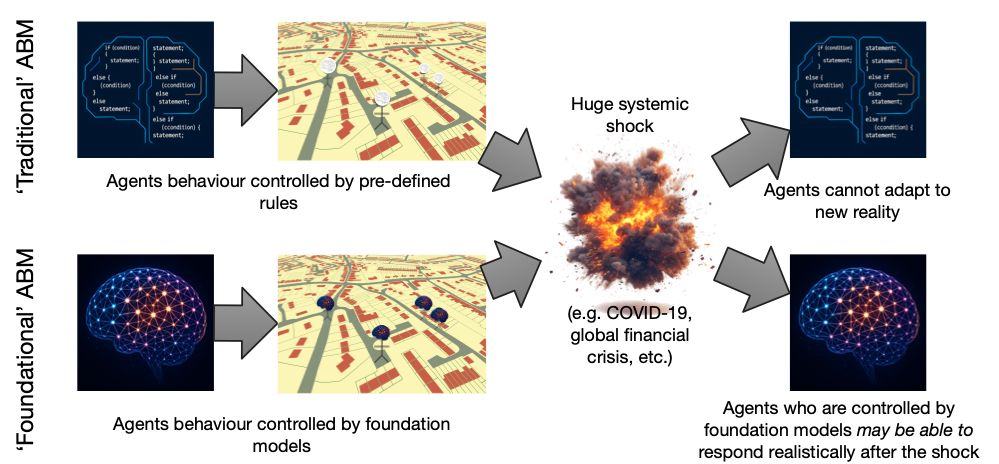
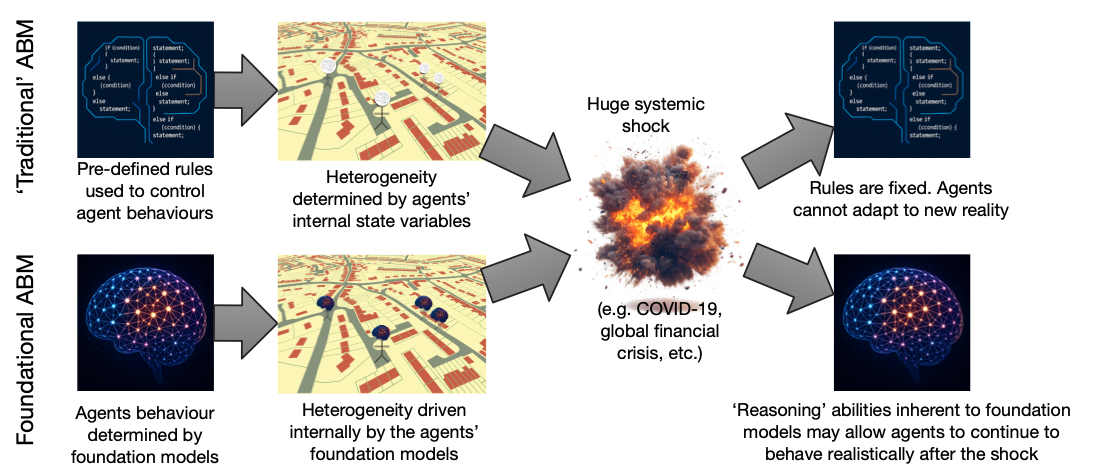
updated cambridge presentation

diff --git a/p/2025-07-ABM_Calibration_Cambridge.html b/p/2025-07-ABM_Calibration_Cambridge.html
@@ -62,6 +62,7 @@
                         </a>
                         <a href="http://www.leeds.ac.uk/">
                             <img style="float:right;padding:5px;width:auto; height:60px;"
+								 class="whitebackground"
                                  data-src="../figures/uol_logo.gif" />
                         </a>
                         <!--<a href="https://environment.leeds.ac.uk/geography">
@@ -75,7 +76,7 @@
                 
                 <section id="outline">
                     
-                    <img src="../figures/chatgpt/digital_city_abm.png" class="right"
+                    <img data-src="../figures/chatgpt/digital_city_abm.png" class="right"
                          style="width:30%;"
                          alt="Nice sunset/sunrise" />
                     <h2>Outline</h2>
@@ -93,15 +94,14 @@
                 
                 <section id="progress-model_synthesis-dyme">
                     <figure class="right">
-                        <img src="../figures/paper_figures/2021-03-RAMP/RAMP_Workflow-with_GeoLytics.png"
+                        <img data-src="../figures/paper_figures/2021-03-RAMP/RAMP_Workflow-with_GeoLytics.png"
                              alt="Diagram of the ramp model components described in the slide text" />
                         <figcaption>Spooner et al. (2021) A dynamic microsimulation model for epidemics. <em>Social Science &amp; Medicine</em> 291, 114461. DOI: <a href="https://doi.org/10.1016/j.socscimed.2021.114461">10.1016/j.socscimed.2021.114461</a></figcaption>
                     </figure>
-                    <h2>Model synthesis</h2>
                     <h3>DyME: Dynamic Model for Epidemics</h3>
                     <!--<p>Part of the Royal Society Rapid Assistance in Modelling the Pandemic (RAMP) call</p>-->
                     <p>COVID transmission model with components including:</p>
-                    <p class="l2">dynamic spatial microsimulation, spatial interaction model, data linkage (PSM), ...</p> 
+                    <p class="l2">dynamic spatial microsimulation, spatial interaction model, data linkage (PSM), infection model</p> 
                     <p>Represents all individuals in a study area with activities: home, shopping, working, schooling</p>
                     <p>Daily timestep</p>
 
@@ -128,19 +128,24 @@
                 
                 
                 <section id="progress-model_synthesis-dyme-data">
-                    <h2>DyME Drawbacks: Data and Latent Variables</h2>
+					<h2>DyME Drawbacks:<br/> Data and Latent Variables</h2>
                     <p>Incredible detailed model!</p>
                     <p>BUT only data available for validation: COVID cases and hospital deaths</p>
                     <p class="l2">Only quantify a tiny part of the transmission dynamics</p>
+					<p class="l2">Manually calibrated most of the parameters</p>
                     <p class="l2">Huge uncertainties</p>
                     <p>Can we use dynamic calibration to:</p>
                     <p class="l2">Infer latent variables</p>
                     <p class="l2">Make better 'real-time' predictions</p>
                     
-                    <!--<img data-src="../figures/paper_figures/2021-03-RAMP/Disease_Status_Upates.png"
-                         style="width:80%;"
-                         alt="Different disease stages: susceptible, exposed (pre)(a)symptomatic, removed" />-->
                 </section>
+
+
+                <section id="disease_status_updates">
+                    <img data-src="../figures/paper_figures/2021-03-RAMP/Disease_Status_Upates.png"
+                         style="width:80%;"
+                         alt="Different disease stages: susceptible, exposed (pre)(a)symptomatic, removed" />
+				</section>
                 
                 <section id='dyme-dynamic_calibration'>
                     <h2>Dynamic Calibration for DyME</h2>
@@ -155,16 +160,6 @@
                     <p class="l2">Parameter posteriors might reveal information about the model / system</p>
                 </section>
 
-                <section id='dyme-abc-posteriors'>
-                    <figure>
-                        <img data-src="../figures/paper_figures/2022-RAMP_DA/parameter_evolution.png"
-                             style="width: 70%;"
-                            alt="Posterior parameter estimates for the DyME model"/>
-                        <figcaption>
-                            M. Asher, N. Lomax, K. Morrissey, F. Spooner, N. Malleson (2023) Dynamic Calibration with Approximate Bayesian Computation for a Microsimulation of Disease Spread. <i>Nature Scientific Reports</i> (under review)
-                        </figcaption>
-                    </figure>
-                </section>
 
                 <section id='dyme-abc-predictions'>
                     <figure>
@@ -172,11 +167,21 @@
                              alt="Uncertain predictions made using the DyME parameter posteriors.
                                   The certainty increases as more data become available."/>
                         <figcaption>
-                            M. Asher, N. Lomax, K. Morrissey, F. Spooner, N. Malleson (2023) Dynamic Calibration with Approximate Bayesian Computation for a Microsimulation of Disease Spread. <i>Nature Scientific Reports</i> (under review)
+                            M. Asher, N. Lomax, K. Morrissey, F. Spooner, N. Malleson (2023) Dynamic Calibration with Approximate Bayesian Computation for a Microsimulation of Disease Spread. <i>Nature Scientific Reports</i> 13 (1): 8637. DOI: <a href="https://doi.org/10.1038/s41598-023-35580-z">10.1038/s41598-023-35580-z</a>
                         </figcaption>
                     </figure>
                 </section>
                     
+                <section id='dyme-abc-posteriors'>
+                    <figure>
+                        <img data-src="../figures/paper_figures/2022-RAMP_DA/parameter_evolution.png"
+                             style="width: 70%;"
+                            alt="Posterior parameter estimates for the DyME model"/>
+                        <figcaption>
+                            M. Asher, N. Lomax, K. Morrissey, F. Spooner, N. Malleson (2023) Dynamic Calibration with Approximate Bayesian Computation for a Microsimulation of Disease Spread. <i>Nature Scientific Reports</i> 13 (1): 8637. DOI: <a href="https://doi.org/10.1038/s41598-023-35580-z">10.1038/s41598-023-35580-z</a>
+                        </figcaption>
+                    </figure>
+                </section>
                 
                 <section id="progress-computation-dyme">
                     
@@ -197,7 +202,7 @@
                 <section id="progress-computation-dyme-improbable"
                          data-background-video="../videos/Ramp_UA_2020-08-28 12-29-25.mp4">
                     <div class="whitebackground2 fragment">
-                        <img src="../figures/LOGO_Improbable.png" class="right" style="width:30%;"
+                        <img data-src="../figures/LOGO_Improbable.png" class="right" style="width:30%;"
                              alt="Improbable company logo" />
                         <p>Re-implemented numpy/pandas model using (py)OpenCL</p>
                         <p>Run time went from 2 hours to a few seconds!</p>
@@ -467,7 +472,7 @@
                 <section id="PolicyDiffusion-Intro" >
                     
                     <figure class="right" >
-                        <img src="../figures/paper_figures/2023-Covid_Policy_Response/data_properties-vertical.png"
+                        <img data-src="../figures/paper_figures/2023-Covid_Policy_Response/data_properties-vertical.png"
                              alt="Two subplots showing the progression of COVID-19 policy adoption across countries in March 2020. Panel (a) depicts the number of countries implementing school closures at four levels of stringency (level 0 to level 3) over time, with a rapid transition to level 3 (complete school closures) around mid-March. Panel (b) compares the adoption of various policies, including school closures, workplace closures, event cancellations, stay-at-home orders, domestic travel restrictions, and international travel restrictions, all measured by the number of countries. School closures exhibit the fastest and most widespread adoption, closely followed by event cancellations, with other policies showing slower adoption."
                             style="width:70%;" />
                         <figcaption>Adoption of school closure policies by governments worldwide. Data source: 
@@ -581,7 +586,7 @@
                 
                 <section id="WealthDistributions-Methods2">
                     <img class="right" style="width: 20%;"
-                         src="../figures/paper_figures/2025-ABM_Wealth_Distribution/fig3.png"
+                         data-src="../figures/paper_figures/2025-ABM_Wealth_Distribution/fig3.png"
                         alt="Flowchart illustrating the particle filter process. It begins with generating an ensemble of models, followed by predictions. At each time step, the algorithm checks if filtering is required (t = k). If yes, the predictions are compared to observations, optimal synthesis is computed, and ensemble members are updated. The process repeats for subsequent time steps." />
                     <h2>Methods (ii)</h2>
                     <h3>Wealth Diffusion with an EnKF</h3>
@@ -604,7 +609,7 @@
                 </section>
                 
                 <section id="WealthDistributions-Discussion">
-                    <img class="right" src="../figures/paper_figures/2025-ABM_Wealth_Distribution/paper_chatgpt_image.jpg"
+                    <img class="right" data-src="../figures/paper_figures/2025-ABM_Wealth_Distribution/paper_chatgpt_image.jpg"
                          alt="Image to liven up slide showing abstract people and a network"
                          style="width: 30%"
                          />
@@ -639,10 +644,11 @@
                 <section id="fm-llms">
                     <h2>Foundation-model-backed ABMs</h2>
                     <p>Modelling human behaviour in ABMs is (still!) an ongoing challenge</p>
-                    <p>Behaviour typically implemented with bespoke rules, but even more advanced mathematical approaches are limited</p>
+                    <p>Behaviour typically implemented with bespoke rules, or even more advanced mathematical approaches</p>
+					<p>But still very limitted and brittle behaviour</p>
                     <p>Can new AI approaches offer a solution?</p>
                     <p class="l2"><strong>Large Language Models</strong> can respond to prompts in 'believable', 'human-like' ways</p>
-                    <p class="l2"><strong>Geospatial Foundation Models</strong> capture nuanced, complex associations between spatial objects</p>
+                    <p class="l2"><strong>Geospatial Foundation Models</strong> capture nuanced, complex spatial associations </p>
                     <p class="l2"><strong>Multi-modal Foundation Models</strong> operate with diverse data (text, video, audio, etc.)</p>                    
                 </section>
                 
@@ -675,7 +681,7 @@
                         <h2>Foundation-model-backed ABMs</h2>
                         <p>Maybe a model with LLM-backed agents would be 
                             better able to respond after a catastrophic system change</p>
-                        <img data-src="../figures/llm_agents.png" style="width:70%;" 
+                        <img data-src="../figures/llm_agents.png" style="width:80%;" 
                              alt="Diagram showing traditional ABM v.s. one where the agents are controlled by LLMs"/>
                     </div>
                 </section>
@@ -690,7 +696,7 @@
                     <p>Already a flurry of activity in LLM-backed ABMs</p>
                     <p class="l2">E.g. AutoGPT, BabyAGI, Generative Agents, MetaGP ... and others ... </p>
                     <figure>
-                        <img src="../figures/attribution/park_llm_agent.png"
+                        <img data-src="../figures/attribution/park_llm_agent.png"
                              style="width:50%;"
                              alt="Image of the ABM created by Park et. al."
                              />
@@ -787,7 +793,7 @@
                 
                 <section id="summary">
                     <img class="right"
-                         src="../figures/chatgpt/digital_city_abm.png"
+                         data-src="../figures/chatgpt/digital_city_abm.png"
                          alt="Conceptual LLM ABM city image, from chatgpt" />
                     <h2>Summary</h2>
                     <p>ABC: dyncmic calibration and inferring latent parameters</p>
@@ -821,6 +827,7 @@
                         </a>
                         <a href="http://www.leeds.ac.uk/">
                             <img style="float:right;padding:5px;width:auto; height:60px;"
+								 class="whitebackground"
                                  data-src="../figures/uol_logo.gif" />
                         </a>
                         <!--<a href="https://environment.leeds.ac.uk/geography">